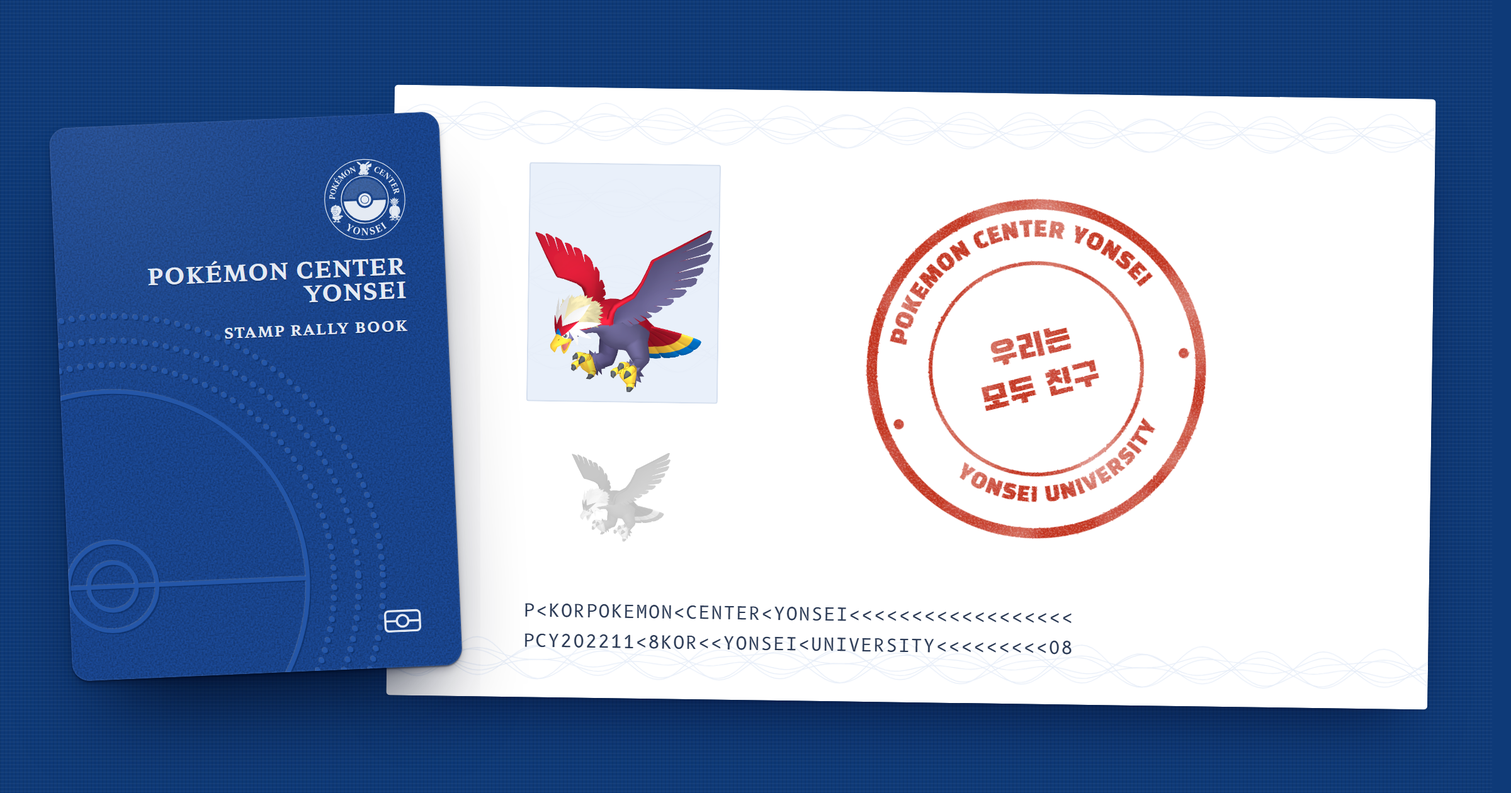
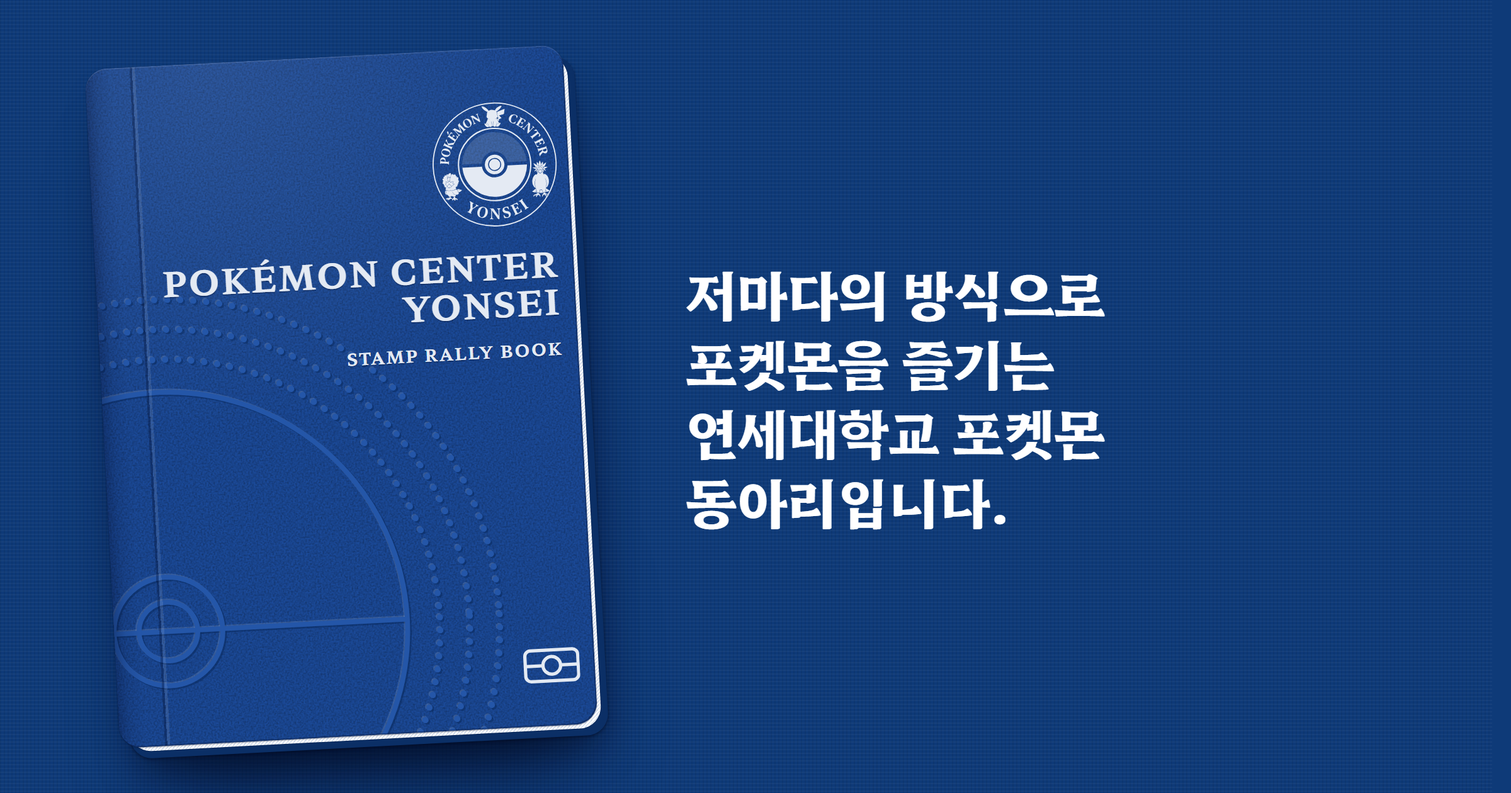
첫 화면을 덮어 둔 여권과 핵심 글로, 국기 언어 단추, 도장은 쪽마다 한 번
- 첫 화면: 워글 사진, 흰 자료 쪽, 기계 판독 줄, 모토 도장을 빼고 천 위에
  덮어 둔 여권 한 권과 핵심 글(소개 한 줄, 자료 네 칸, 가입과 YPL)만
- 여권은 비율 88:125를 지킨 채 화면에 맞춰 줄고 늘고(표지 안 치수는 cqi),
  속지와 뒤표지 가장자리, 책등 그늘과 접는 홈으로 실제 수첩처럼
- 글 길이와 상관없이 여권의 크기와 자리가 세 언어에서 같다
- 언어 단추를 다시 국기로(#f-kr, #f-us, #f-jp)
- 스탬프 랠리 도장은 쪽 번호 옆에 한 번만. 머리줄과 휴대폰 메뉴에서 뺐다
- 활동 사진: 필름 원판 대신 사진 귀를 붙인 빈 사진 자리와 인스타그램 링크
- 통일성: 마스코트 키와 몸무게에 여권식 이름표, 원종과 타입 칩을 고무도장으로,
  바닥글 메뉴 글꼴을 머리줄과 같게
- og.png와 make-og.mjs, CLAUDE.md, DESIGN.md를 새 구조에 맞췄다

diff --git a/DESIGN.md b/DESIGN.md
@@ -175,7 +175,7 @@ components:
 
 ### Secondary (도장 잉크 넷)
 - **파랑 잉크** (`ink-blue`): 기본 도장, 기본 표, 고른 기수 탭, 링크, 화살표.
-- **빨강 잉크** (`ink-red`): 모토 도장, 환영 도장, 가입 표(마지막 쪽), 질문의 A 표시와 열린 표시, 회장과 부회장 직책, 초점 테두리.
+- **빨강 잉크** (`ink-red`): 환영 도장, 가입 표(마지막 쪽), 질문의 A 표시와 열린 표시, 회장과 부회장 직책, 초점 테두리.
 - **초록 잉크** (`ink-green`): 소개 쪽 봉인 도장, 연혁과 활동의 일부 도장, 복사 완료.
 - **보라 잉크** (`ink-violet`): 리그 입장권(표, 트로피 도장, 강조 글자).
 
@@ -204,7 +204,7 @@ components:
 | 제목 | Hahmlet 900 (Shippori Mincho B1 800) | h1, h2, h3, 임원 이름, 머리줄과 바닥글의 영문 이름 |
 | 값 (`.val`) | Hahmlet 700 (Shippori Mincho B1) | 소개 첫 문단, 자료 칸의 값, 가입 요약의 값, 연락처, 질문, 리그 문구, 도감 분류, 키와 몸무게, 한 학기 행사 이름 |
 | 단추 | Black Han Sans (Dela Gothic One) | 누르는 것과 작은 꼬리표: 표 단추, 링크, 탭, 색인 꼬리표, 칩, 직책 꼬리표 |
-| 도장 글자 (`--f-ink`) | Black Han Sans (Dela Gothic One) | 고무도장에 판 글자: 도장 띠, 모토 도장, 부서 도장, 질문 묶음 이름. `--f-stamp`와 같은 글꼴이다(2026-11에 Gasoek One을 빼서 글꼴을 다섯으로 줄였다) |
+| 도장 글자 (`--f-ink`) | Black Han Sans (Dela Gothic One) | 고무도장에 판 글자: 도장 띠, 부서 도장, 질문 묶음 이름. `--f-stamp`와 같은 글꼴이다(2026-11에 Gasoek One을 빼서 글꼴을 다섯으로 줄였다) |
 | 자료 (`.mono`) | B612 Mono 400 (세 언어 공통, 공항과 여권 서류의 글자) | 자료 이름표(CLUB, MEMBERS), 도감 번호, 영어 이름, 연락처 종류, MRZ, 쪽 번호, 저작권 줄 |
 | 본문 | Gowun Dodum (Zen Kaku Gothic New) | 문단, 쪽 소개, 임원 정보, 법적 고지, 한글 이름표(`.lbl`) |
 
@@ -247,7 +247,7 @@ components:
 - 쪽 머리(제목과 소개) 다음 첫 본문에는 `.page-body`를 붙여 묶음 사이 간격을 준다.
 
 ### 쪽마다 자기 배치
-- **첫 화면:** 왼쪽에 닫힌 수첩 표지(`.cover`, 여권 비율 88:125, 높이 440~600px, -2.5도, 안쪽 여백 위 12% 옆 10% 아래 9%). 실제 여권(한국 2021, 노르웨이, 스위스)의 문법을 따른다: 네 귀가 같은 둥근 귀(4mm), 무광 한 가지 색, 넉넉한 빈 면, 오른쪽 위 작은 은박 엠블럼(폭 27%), 그 아래 엠블럼 지름의 4분의 1(6.5cqi)만 띄운 오른쪽 맞춤 글 묶음(영어로만: 함렛 700 대문자로 POKÉMON CENTER / YONSEI 두 줄, 엠블럼 고리의 글자 배치와 같게, 아래에 작은 STAMP RALLY BOOK. 실제 여권처럼 번역하지 않는 디자인 요소이고, 세 언어 모두 같은 모양이다. 각 언어의 동아리 이름은 h1 안의 숨은 글자로 화면 낭독기가 읽는다)(엠블럼 그림 안의 투명한 가장자리만큼 당겨 고리와 글 오른쪽 끝을 맞추고, 이름 윗선은 `text-box`로 글자 끝에서 잰다), 왼쪽 아래 가장자리에서 잘리는 큰 몬스터볼과 점 호 세 줄을 색 없이 눌러 찍고(한국 여권의 태극 무늬와 점 호처럼), 오른쪽 아래 전자여권 표시. 글자 크기는 표지 폭에 맞춰(`cqi`) 함께 줄어든다. 테두리, 책등, 광택 같은 장식은 쓰지 않는다. 오른쪽에 표지 아래로 48px 깔린 자료 쪽(`.data`, 0.8도)은 실제 여권의 신원 정보면이다: 왼쪽 위 사진 칸(4:5, 마스코트 워글의 증명사진, 사진 바탕에도 보안 무늬), 그 아래 가운데 옅은 흑백 보조 사진(여권의 위조 방지용 작은 사진), 오른쪽에 소개 한 줄과 자료 여섯 칸(두 칸씩 세 줄), 가입 표와 YPL 링크(늘 위아래로), 맨 아래 MRZ 두 줄(각 44자). 모토 도장은 자료 쪽 오른쪽 아래 가장자리에 걸쳐 찍는다(단추와 겹치지 않게). 900px 미만에서는 표지(최대 320px, 키가 작은 화면에서는 더 작게)가 위에, 자료 쪽이 그 아래로 32px 깔리고, 모토 도장은 단추 줄 오른쪽에 온다. 520px 미만에서 사진은 소개 한 줄 옆에 88px로 작아지고, 자료 칸이 한 줄이 되며, 보조 사진은 뺀다.
+- **첫 화면:** 천 위에 덮어 둔 여권 한 권(`.passport`)과 핵심 글(`.hero-copy`)만 나란히(세운 좁은 화면에서는 여권 아래로 글). 여권은 비율 88:125를 절대 바꾸지 않고, 폭은 화면 높이에 맞춰 280~400px(휴대폰 220~320px, 화면 폭의 72% 이하), -3도. 앞표지 밑으로 속지 가장자리(흰 종이 결)와 뒤표지 가장자리가 오른쪽 아래로 비치고, 왼쪽에 책등으로 감기는 그늘과 접는 홈이 있어 실제로 덮어 둔 수첩처럼 보인다. 표지 안의 모든 치수는 여권 폭(`cqi`) 기준이라 어떤 화면에서도 같은 모양으로 줄고 는다. 표지 문법은 실제 여권(한국 2021, 노르웨이, 스위스): 네 귀가 같은 둥근 귀, 무광 한 색, 오른쪽 위 은박 엠블럼(폭 27%), 그 아래 엠블럼 지름의 4분의 1만 띄운 오른쪽 맞춤 영어 이름 묶음(POKÉMON CENTER / YONSEI, STAMP RALLY BOOK. 번역하지 않는 디자인 요소이고 각 언어 이름은 h1 안의 숨은 글자), 왼쪽 아래 색 없이 눌러 찍은 몬스터볼과 점 호, 오른쪽 아래 전자여권 표시. 핵심 글은 천 위 흰 글자: 소개 한 줄(Hahmlet 700), 자료 네 칸(MEMBERS, MEETUP, FEE, ELIGIBILITY, 고정폭 이름표와 값), 흰 가입 표와 YPL 링크. 글 길이가 언어마다 달라도 여권의 크기와 자리, 바탕은 바뀌지 않는다.
 - **활동:** 한 학기 도장 카드 네 칸, 점선 아래 활동 셋(나란히 세 칸, 잉크색 제목 아래 글. 860px 미만에서 한 줄씩), 다시 점선 아래 소모임 띠(왼쪽 제목, 오른쪽 고무도장 꼬리표). 소모임 목록을 활동 칸 하나에 매달지 않는다.
 - 소개는 5:7 두 칸, 연혁은 두 줄 도장 목록, 마스코트는 카드 두 장과 화살표, 질문은 줄 목록, 가입은 글과 도장 자리 두 칸. 리그 입장권만 `.loose`로 천 위에 따로 놓인다.
 - **머리줄:** 높이 64px(900px 미만 56px).
@@ -290,7 +290,6 @@ components:
 - **은박 엠블럼** (`#emblem-foil`): 여권 표지의 엠블럼은 원래 엠블럼을 여권식으로 다시 그린 것이다. 원래 엠블럼의 흰 부분(가는 바깥 고리, 글자와 포켓몬 그림, 안쪽 고리, 몬스터볼 아래 반, 단추)만 은박으로 누르고, 남색 바탕은 표지가 된다. 몬스터볼 위 반(원래 조금 밝은 남색)은 은박을 16%로 옅게 깐다. 모양은 원래와 같다(글자와 그림 묶음 `#emb-glyphs`를 같이 쓴다). 은박은 평평한 한 가지 색이고 필터를 쓰지 않는다.
 - **잉크:** 색은 `--c`(클래스 `.ink-blue`, `.ink-red`, `.ink-green`, `.ink-violet`). 큰 도장은 `filter: url(#ink)`(잉크 알갱이가 빠지고 가장자리가 3px 번짐), 작은 글자 도장은 `url(#ink-soft)`(결만 남기고 번짐 없음). 둘 다 문서 맨 앞 숨은 `<svg>`의 `<filter>`다.
 - **찍기:** 화면에 55% 들어오면 `.pressed`가 붙고 `press` 460ms(`--press` 곡선)로 6도 더 돌아간 1.2배 크기에서 0.94배로 눌렸다가 1배로 앉는다. 한 칸 안에서는 `--d` 하나당 120ms씩 차례로.
-- **모토 도장:** 첫 화면이 그려지고 450ms 뒤에 찍힌다.
 - **환영 도장:** 가입 쪽의 빈 자리(흐린 엠블럼 14%)에 있다가, 가입 표를 누를 때만 찍힌다. 기기의 움직임 줄이기 설정에서도 누르기 전에는 비어 있다(빈 자리가 이 쪽의 뜻이다).
 
 ### 표 단추 (`.ticket`)
@@ -299,14 +298,14 @@ components:
 - **상태:** 마우스를 올리면 2px 떠오르고 화살표가 2px 밀린다(220ms). 누르면 1px 내려가며 0.98배.
 - **글자 링크 (`.link`):** 표 옆의 보조 길. 파랑 잉크 글자에 2px 밑줄, 높이 44px.
 
-### 자료 칸과 MRZ (`.data`, `.field`, `.mrz`)
-여권 자료 쪽. 자료 여섯 칸(두 줄 세 칸, 칸마다 위에 1px 점선), 항목 이름(고정폭 대문자 `.mono` + 한글 이름표 `.lbl`)과 값(`.val`, 26.5px), 맨 아래 MRZ 두 줄(실제 여권 TD3처럼 각 44자, 폭에 맞춰 글자 크기를 `cqi`로 계산해 한 줄에 들어가게). 영어에서는 고정폭 이름표 옆의 작은 이름표를 숨긴다(MEMBERS Members처럼 되풀이되므로). 회원 수와 회비가 바뀌면 이 칸도 바뀐다.
+### 자료 칸 (`.fields`, `.field`, 마스코트 `.specs`)
+항목 이름(고정폭 대문자 `.mono` + 한글 이름표 `.lbl`)과 값(`.val`). 첫 화면 천 위의 네 칸(위에 점선)과 마스코트 카드의 키와 몸무게(HEIGHT, WEIGHT)가 같은 말투다. 영어에서는 고정폭 이름표 옆의 작은 이름표를 숨긴다(MEMBERS Members처럼 되풀이되므로). 회원 수와 회비가 바뀌면 이 칸도 바뀐다. 기계 판독 줄(MRZ)은 뒤표지에만 있고 실제 여권(TD3)처럼 44자다.
 
 ### 쪽 번호 (`.folio`)
 각 쪽 아래 가운데의 두 자리 번호(01에서 08), 양옆에 짧은 선. 색인 번호와 같다.
 
 ### 색인 꼬리표 (`.sect-list`)
-머리줄 가운데의 글자 색인. Hahmlet 700 17px(영어와 일본어는 1240px 미만에서 13.5px), 천 위 보조 글자색, 지금 쪽은 흰 글자와 아래 가는 실 한 줄. 다 읽은 쪽에는 글자 오른쪽 위 모서리에 작은 랠리 도장이 찍힌다(스탬프 랠리 참고). 900px 미만에서는 목차 단추가 천 위에 흰 색인 쪽을 펼치고(위에서 아래로 열림), 번호 칸과 이름 칸이 48px 줄로 놓인다.
+머리줄 가운데의 글자 색인. Hahmlet 700 17px(영어와 일본어는 1240px 미만에서 13.5px), 천 위 보조 글자색, 지금 쪽은 흰 글자와 아래 가는 실 한 줄. 랠리 도장은 머리줄에 찍지 않는다(쪽 번호 옆에 한 번만). 900px 미만에서는 목차 단추가 천 위에 흰 색인 쪽을 펼치고(위에서 아래로 열림), 번호 칸과 이름 칸이 48px 줄로 놓인다.
 
 ### 입국 도장 (연혁 `.visa`, `.entry`)
 날짜마다 모양과 잉크가 다른 148px 도장(휴대폰 104px)과 옆의 제목과 글. 펼친 두 쪽이라 왼쪽 쪽을 위에서 아래로(2022.11, 2023.03), 이어서 오른쪽 쪽(2023.07, 2024.03)을 읽는다(`grid-auto-flow: column`). 860px 미만에서 한 줄.
@@ -315,7 +314,7 @@ components:
 점선 원 네 칸(최대 140px)이 점선으로 이어지고, 들어오면 네 칸에 차례로 포켓몬 도장이 찍힌다. 아래 점선 뒤에 활동 셋(제목 앞 그 잉크의 몬스터볼 도장 30px, 마스크로 그림), 다시 점선 뒤에 소모임 띠: 왼쪽 제목(`act.subs`), 오른쪽 고무도장 꼬리표(`.tag`, Black Han Sans, 2px 테두리, `#ink-soft`, 포켓몬 소모임은 빨강, 그 밖은 파랑, 살짝씩 기울임).
 
 ### 칩 (`.chip`, `.type-chip`, `.dex-form`)
-우표첩 바탕의 알약에 잉크색 점 하나. 소모임은 Black Han Sans, 타입과 형태는 본문 글꼴 700.
+소모임 꼬리표와 같은 작은 고무도장: 2px 테, `#ink-soft` 잉크 결, Black Han Sans(형태와 타입: 원종, 노말, 비행).
 
 ### 리그 입장권 (`.pass`)
 탑승권 모양의 속지 한 장. 왼쪽 본문(보라 형광 밑줄 강조 하나, 보라 표), 오른쪽 300px 떼는 쪽에 보라 트로피 도장, 바코드, 고정폭 리그 이름. 760px 미만에서 떼는 쪽이 아래로 간다.
@@ -340,13 +339,13 @@ components:
 ### 마지막 도장 자리와 가입 (`.final`)
 뒤표지 안쪽의 면지: 우표첩 바탕(`album`)에 보안 무늬가 온 면에 깔린다. 오른쪽은 280px 점선 원(3px, 820px 미만에서는 180px) 안에 흐린 엠블럼. 왼쪽에는 큰 제목, 빨강 한 줄, 제목색 괘선 아래 랠리 카드, 그 바로 아래 빨강 가입 표(랠리 카드의 "마지막 도장은 가입하기에서" 바로 밑). 표를 누르면 오른쪽 빈 자리에 WELCOME 환영 도장이 찍히고 연락처 창이 뜬다. 휴대폰에서는 가입 표가 빈 도장 자리보다 먼저 온다. 회비 같은 자료는 첫 화면에 한 번만 둔다.
 
-### 스탬프 랠리 (`.rally`, `.mini`, 색인의 `.slot`)
-페이지를 진짜 랠리로 만드는 장치. 쪽 번호(`.folio`, 쪽의 끝)가 화면에 0.4초 머물면 그 쪽을 다 읽은 것으로 보고, 그 쪽의 작은 둥근 도장(`.mini`, 두 겹 테 안에 캐릭터, `#ink-soft`)이 세 곳에 같이 찍힌다: 쪽 번호 오른쪽(40px), 머리줄 색인 글자의 오른쪽 위 모서리(20px, 천 위라 흰 바탕 원), 휴대폰 색인 줄 오른쪽의 빈 점선 칸(32px). 가입 쪽 왼쪽 글 아래, 제목색 괘선 밑에 랠리 카드(제목, 고정폭 개수 `N / 7`, 번호가 적힌 48px 점선 칸 일곱, 안내 한 줄)가 놓인다. 일곱 칸이 다 차면 안내가 빨강 도장 글자 "랠리 완주!"로 바뀌고 큰 도장 자리의 점선도 빨강이 된다. 여덟 번째 도장은 가입 표를 눌러 받는 환영 도장이다.
+### 스탬프 랠리 (`.rally`, `.mini`)
+페이지를 진짜 랠리로 만드는 장치. 쪽 번호(`.folio`, 쪽의 끝)가 화면에 0.4초 머물면 그 쪽을 다 읽은 것으로 보고, 그 쪽의 작은 둥근 도장(`.mini`, 두 겹 테 안에 캐릭터, `#ink-soft`, 48px)이 쪽 번호 오른쪽에 한 번 찍힌다. 머리줄 색인에는 찍지 않는다(같은 도장을 두 번 찍지 않고, 머리줄이 잘리지 않게). 가입 쪽 왼쪽 글 아래, 제목색 괘선 밑에 랠리 카드(제목, 고정폭 개수 `N / 7`, 번호가 적힌 48px 점선 칸 일곱, 안내 한 줄)가 놓인다. 일곱 칸이 다 차면 안내가 빨강 도장 글자 "랠리 완주!"로 바뀌고 큰 도장 자리의 점선도 빨강이 된다. 여덟 번째 도장은 가입 표를 눌러 받는 환영 도장이다.
 - 도장: 소개 피카츄(초록), 연혁 피츄(파랑), 활동 이브이(빨강), 리그 리자몽(보라), 마스코트 수리둥보(파랑), 사람들 푸린(초록), 질문 잠만보(빨강). 그림은 이미 있는 도장 `<image>`에서 빌려 쓴다(같은 이미지를 또 넣지 않는다).
 - 색인을 눌러 휙 지나가는 쪽은 찍지 않는다(0.4초 머묾). 방문할 때마다 새로 모으고 저장하지 않는다. 스크립트가 없으면 카드는 숨는다.
 
-### 활동 사진 (`.photos`, `.film`)
-활동 쪽 맨 아래. 실제 사진은 인스타그램에 있고, 쪽에는 필름 원판 한 줄(짙은 천 색 필름, 위아래 톱니 구멍, 구멍과 칸 사이의 가장자리 인쇄 PCY 400, 칸 넷)과 한 줄 글, 표 단추 "인스타그램에서 보기"를 둔다. 필름 칸에는 한 학기 도장 그림 넷(이상해씨, 이브이, 잠만보, 삐삐)을 원판처럼 반전해 비춘다(스크립트가 도장 그림을 빌려 와 `--neg`로 넘긴다). 필름 전체도 같은 링크다(화면 낭독기와 키보드는 표 단추만 쓴다). 활동 쪽의 작은 제목(한 학기 동안, 소모임, 활동 사진)은 모두 내용 위에 놓는다.
+### 활동 사진 (`.photos`, `.album`)
+활동 쪽 맨 아래. 실제 사진은 인스타그램에 있다. 쪽에는 마스코트 등록 카드와 같은 사진(흰 테 8px, 네 모서리 사진 귀, 살짝 기울임)의 빈 사진 자리 하나에 인스타그램 표시와 계정(고정폭), 옆에 한 줄 글과 표 단추 "인스타그램에서 보기". 사진 자리도 같은 링크다(화면 낭독기와 키보드는 표 단추만 쓴다). 활동 쪽의 작은 제목(한 학기 동안, 소모임, 활동 사진)은 모두 내용 위에 놓는다.
 
 ### 연락처 창 (`.dlg`)
 속지 한 장(보안 무늬, 10px 모서리, 최대 480px)의 `<dialog>`. 열릴 때 0.94배에서 커진다. 제목 아래 괘선, 연락처마다 선 아이콘 28px, 고정폭 이름표, 값(Hahmlet 700 17px, 마우스를 올리면 빨강), 복사 알약(누르면 초록으로 바뀌고 체크).
@@ -355,7 +354,7 @@ components:
 여권 뒤표지: 앞표지와 같은 무광 표지 재질(`--cover-c`, 가죽 결 `--grain`)에, 앞표지의 눌러 찍은 몬스터볼과 점 호를 좌우로 뒤집어 오른쪽 아래에(휴대폰에서는 280px로 작게). 은박 엠블럼(`#emblem-foil`) 96px, 은박 대문자 영어 이름(Hahmlet 700), 소개 한 줄, 메뉴, 밑줄 있는 연락처 링크, 상표 고지, 맨 아래 은박 바코드와 기계 판독 줄(44자, 글 폭에 맞춰 `cqi`로). 테두리 장식은 쓰지 않는다. 글자는 `foil`, `on-cloth`, `on-cloth-2`, 초점 테두리는 흰색.
 
 ### 아이콘과 국기
-선 아이콘은 24×24, 선 2, 둥근 끝(`.ic`). 국기는 임원 국적에만 쓰고, 직접 그린 SVG 기호(`#f-kr`, `#f-jp`, `#f-fr`)이며 이모지를 쓰지 않는다. 언어 단추는 국기가 아니라 KO, EN, JA 글자다(고정폭, 고른 것은 흰 바탕에 천 색 글자). 엠블럼은 `#emblem` 기호 하나를 첫 화면 표지, 머리줄, 가입 쪽, 뒤표지가 같이 쓴다.
+선 아이콘은 24×24, 선 2, 둥근 끝(`.ic`). 국기는 임원 국적과 언어 단추에 쓰고, 직접 그린 SVG 기호(`#f-kr`, `#f-us`, `#f-jp`, `#f-fr`)이며 이모지를 쓰지 않는다. 언어 단추도 국기(`#f-kr`, `#f-us`, `#f-jp`, 26×17px, 모서리 2px)이고 고른 것은 흰 테를 두르고 조금 커진다. 엠블럼은 `#emblem` 기호 하나를 첫 화면 표지, 머리줄, 가입 쪽, 뒤표지가 같이 쓴다.
 
 ### 움직임
 곡선은 둘이다. `--press`(눌렀다 앉는 곡선)와 `--ease`(부드러운 멈춤). 길이는 120ms에서 520ms. 움직임은 과하지 않아 화면에 끄는 단추를 두지 않고, 기기 설정의 움직임 줄이기만 따른다(`<html data-motion>`). `reduce`에서는 모든 움직임이 멈추고 도장은 처음부터 찍힌 채 보인다.

diff --git a/CLAUDE.md b/CLAUDE.md
@@ -11,7 +11,7 @@
 | 경로 | 설명 |
 |---|---|
 | `index.html` | **사이트 전체.** CSS, JS, 이미지(base64)가 전부 인라인된 단일 파일이자 유일한 편집 대상. 약 1.4MB |
-| `og.png` | 1200×630 링크 공유 카드(2배 해상도 2400×1260). **첫 화면을 간추려 찍은 것**(은박 표지, 모토 도장, 기계 판독 줄만) — 따로 그리지 말고 `node scripts/make-og.mjs`로 다시 만든다. 첫 화면을 고치면 이것도 다시 만들 것 |
+| `og.png` | 1200×630 링크 공유 카드(2배 해상도 2400×1260). **첫 화면을 간추려 찍은 것**(덮어 둔 여권과 소개 한 줄만) — 따로 그리지 말고 `node scripts/make-og.mjs`로 다시 만든다. 첫 화면을 고치면 이것도 다시 만들 것 |
 | `.github/workflows/static.yml` | 자동 배포 설정. 건드리지 말 것 |
 | `scripts/` | 검증·이미지 처리 도구. 이 중 `build.mjs`만 배포에 쓰인다 |
 | `dist/` | 배포 때 자동으로 만들어지는 결과물. Git에 올리지 않고(`.gitignore`) 직접 고치지 않는다 |
@@ -25,7 +25,7 @@
 
 문구는 `index.html` 안 `const i18n = { ko:{}, en:{}, ja:{} }` 사전에 있고, 마크업은 `data-i18n="키"`로 참조한다. `setLang(lang)`이 `innerHTML`을 교체한다.
 
-- **세 언어의 키 집합이 완전히 동일**해야 한다 (현재 280개 × 3).
+- **세 언어의 키 집합이 완전히 동일**해야 한다 (현재 277개 × 3).
 - **HTML에 직접 적힌 기본 텍스트 = `ko` 값**이어야 한다. 어긋나면 언어 버튼을 한 번도 누르지 않은 첫 방문자에게만 다른 문구가 보인다. 실제로 이 버그로 한국어 페이지에 마스코트 타입 칩이 영어로 떠 있었다.
 - 문구에 가운뎃점(·)을 쓰지 않는다. 나열은 쉼표나 평범한 문장으로 쓴다. (자료 칸의 영어 고정폭 이름표 CLUB, MEMBERS 등, 도장 안의 영어, 첫 화면 여권 표지의 영어(POKÉMON CENTER / YONSEI, STAMP RALLY BOOK)는 번역 대상이 아니라 디자인 요소다. 표지의 h1에는 각 언어의 동아리 이름(`brand`)이 화면 낭독기용 숨은 글자로 들어 있다. 제목 위에 영어 머리말을 다는 것은 금지다. 아래 디자인 체계 참고.)
 - 일본어는 전각 물음표(？)와 느낌표(！)를 쓰고, 학교 이름은 「延世大学」, 지명은 「シンチョン」처럼 일본어 독자가 읽는 대로 적는다. 영어에는 줄표(—)를 쓰지 않는다.
@@ -36,7 +36,7 @@
 
 키 접두사: `meta. brand. nav. hero. about. history. act. sub. ypl. mas. mem. faq. join. facts. contact. foot.`(섹션 문구), `ed. er. em* ey. eg. ec.`(임원 메타), `pn.<한글이름>`(인물), `pk.<한글포켓몬>`(포켓몬), `a11y.`(보조 문구). 대체 텍스트용 `data-i18n-aria`(마스코트 그림)와 스크립트에서만 쓰는 키(`contact.copied`)도 있다.
 
-`facts.*`는 첫 화면 자료 칸의 회비, 가입 대상, 정기 모임 값이다(2026-11에 가입 쪽의 같은 요약 줄은 반복이라 뺐다). 회비나 회원 수가 바뀌면 FAQ, 소개 문단과 함께 여기도 고친다. 회원 수는 첫 화면 자료 칸(MEMBERS 줄의 `<b>130</b>`)에도 적혀 있다. 기수 숫자(GENERATION)는 사람들 섹션의 기수 탭 개수를 스크립트가 센다.
+`facts.*`는 첫 화면 자료 칸(천 위의 네 칸: 회원, 정기 모임, 회비, 가입 대상)의 회비, 가입 대상, 정기 모임 값이다. 회비나 회원 수가 바뀌면 FAQ, 소개 문단과 함께 여기도 고친다. 회원 수는 첫 화면 자료 칸(MEMBERS 줄의 `<b>130</b>`)에도 적혀 있다.
 
 임원 한 명은 이름(`pn.`), 직책(`er.`), 학과(`em`), 학번(`ey.`), 국적(`nat.`), 최애 포켓몬(`pk.`)으로 이루어진다. 학과 이름은 모두 "~학과"로 쓴다(학부로 쓰지 않는다). 국적은 모두 표시하고, 기본값은 `nat.kr`이다. 국기는 이모지가 아니라 직접 그린 SVG 기호(`#f-kr`, `#f-jp`, `#f-fr`)다. 이모지 국기는 윈도우에서 글자로 보이기 때문이다. 새 국적을 추가하려면 같은 방식으로 `#f-<코드>` 기호를 그리고 `nat.<코드>` 문구를 세 언어로 넣는다(화면 낭독기용으로 이름이 함께 들어간다). 외국인 임원은 이름을 성과 이름 모두 적는다(예: 나카쓰지 아오바 / Aoba Nakatsuji / 中辻 青葉).
 
@@ -69,7 +69,7 @@
 
 - 명암비 WCAG AA 4.5:1 미달 0곳. 속지 위에서는 `--label`(#4D6690, 5.8:1)이 가장 옅은 글자색이라 더 옅게 하면 깨진다. 도장 잉크 넷(`--ink-blue/red/green/violet`)도 글자로 쓸 수 있게 4.5:1 이상으로 골랐다. 글자에 투명도를 쓰지 않는다
 - 테마는 하나(연세 블루 천 표지와 흰 속지)다. 2026-10-16에 라이트/다크 전환을 없앴다. 전환 버튼을 되살리지 말 것. 천 위의 글자는 흰색 계열(바탕색을 `background-color`로도 적어야 명암비 검사가 맞게 잰다)
-- 언어 단추는 KO, EN, JA 글자(B612 Mono)다. 국기를 쓰지 않는다(언어는 나라가 아니고, 영어에 미국 국기를 붙이지 않으려고 2026-11에 바꿨다). 화면 낭독기용 이름(한국어, English, 日本語)이 숨어 있다
+- 언어 단추는 국기(`#f-kr`, `#f-us`, `#f-jp`, 모서리 2px, 고른 것은 흰 테)이고, 화면 낭독기용 이름(한국어, English, 日本語)이 숨어 있다
 - `:focus-visible` 아웃라인 / `prefers-reduced-motion` 대응 / `<main>` + 스킵 링크 / 제목 레벨 연속
 - FAQ는 세 묶음(가입, 활동, 회비와 동아리방. 묶음 이름은 `h3.faq-g`, 질문은 `h4.faq-h`)의 아코디언(`aria-expanded` + `aria-controls`, 닫힌 답에 `inert`, 13개). 기수 고르기는 탭(`role=tablist/tab/tabpanel`, `aria-selected`, 고르지 않은 패널은 `hidden`, 좌우 화살표로 이동). 마스코트는 탭 없이 등록 카드 둘이 나란히 놓인다
 - 모든 `<img>`에 `width`/`height` (레이아웃 시프트 방지)
@@ -87,7 +87,7 @@
 
 - **천과 속지**: 페이지 바탕은 연세 블루 천 표지(`--cloth` #0E3A78, 가는 직조 무늬 `--weave`). 내용은 흰 속지(`.paper`, 위아래 가장자리에만 옅은 보안 무늬 띠 `--print-url`, 모서리 3px, 종이 그림자)에 담긴다. 쪽마다 물건이 다르다: 질문은 풀칠한 천 띠와 절취선이 있는 메모장, 가입은 보안 무늬가 온 면에 깔린 면지, 넓은 화면에서는 소개, 마스코트, 질문 쪽의 폭과 놓인 자리가 조금씩 다르다. 섹션 하나가 한 쪽(`.page.sheet`)이고, 쪽 아래에 색인 번호와 같은 쪽 번호(`.folio`, 01~08)가 있다. 리그만 천 위에 따로 놓인 입장권(`.loose` 안의 `.pass`)이다.
 - **도장**(`.stamp`): 잉크 넷(`--ink-blue` #1D4FA0, `--ink-red` #C2331F, `--ink-green` #23724A, `--ink-violet` #5B3FA0) 중 하나로, `filter: url(#ink)`의 얼룩진 잉크 결과 기울기(`--r`). 작은 글자 도장은 결만 남기는 `#ink-soft`. 화면에 들어오면 찍힌다(`.pressed`, 한 칸 안에서는 `--d` 순서로). 기기의 움직임 줄이기 설정에서는 처음부터 찍혀 있다(화면에 끄는 단추는 2026-10-18에 없앴다). 공식 포켓몬 미니 스탬프처럼 틀(둥근 사각, 원, 물결 원)을 꽉 채운 무늬(빗금, 점) 위에 2D 캐릭터를 가운데 크게 두고, 아래 리본 띠에 날짜나 단어를 흰 글자로 판다. 첫 화면 엠블럼도 `#emb-ink` 필터로 찍은 도장이다. 질문 답 앞 표시는 빨간 몬스터볼 도장이다.
-- **부품**: 첫 화면 자료 쪽의 사진 칸(`.bio-photo`, 마스코트 워글의 증명사진과 옅은 보조 사진 `.bio-ghost`, 그림은 `.art-braviary`를 같이 쓴다), 활동 쪽의 활동 사진 띠(`.photos`: 실제 사진 대신 인스타그램으로 가는 필름 원판 한 줄 `.film`과 링크. 필름 칸에는 한 학기 도장 그림 넷을 스크립트가 반전해 비춘다. 사진을 지어내 넣지 않는다), 첫 화면의 닫힌 수첩 표지(`.cover`, 실제 여권 문법: 무광 한 색, 오른쪽 위 은박 엠블럼, 오른쪽 맞춤 이름 묶음, 색 없이 눌러 찍은 몬스터볼과 점 호, 전자여권 표시)와 그 아래 반쯤 깔린 자료 쪽(`.data`), 자료 칸(`.fields`)과 기계 판독 줄(`.mrz`), 입국 도장(연혁 `.entry`), 한 학기의 도장 카드(`.road`), 반원 홈이 파인 표 단추(`.ticket`, 흰색 `.white`, 빨강 `.red`), 리그 입장권(`.pass`), 마스코트 등록 카드(`.dex`), 우표(`.exec-member` 안의 `.perf`, 가장자리 구멍은 마스크. 1300px 이상에서는 부서마다 우표 수집책의 옅은 띠 위에 꽂힌다), 질문 줄(`.faq-item`, 답 앞의 붉은 A 도장), 마지막 빈 도장 자리와 환영 도장(`.final`, `.welcome`), 스탬프 랠리(`.rally`: 쪽 번호가 0.4초 보이면 그 쪽의 작은 도장 `.mini`가 쪽 번호 옆, 색인, 가입 쪽 랠리 카드에 같이 찍힌다. 그림은 기존 도장 그림을 빌려 쓰고, 방문마다 새로 모은다), 머리줄의 색인(`.sect-list`, Hahmlet 700 17px, 천 위의 흰 글자만, 지금 쪽 아래에 가는 실 한 줄. 색 꼬리표는 2026-10-18에 없앴다), 뒤표지(`.footer`, 앞표지와 같은 무광 표지 재질 `--cover-c`에 은박 엠블럼과 이름, 좌우를 뒤집은 몬스터볼 무늬, 바코드와 기계 판독 줄). 기계 판독 줄(MRZ)은 실제 여권(TD3)처럼 두 줄 모두 44자다.
+- **부품**: 활동 쪽의 활동 사진(`.photos`: 실제 사진 대신 마스코트 카드와 같은 사진 귀를 붙인 빈 사진 자리 `.album`에 인스타그램 표시와 계정, 옆에 인스타그램 링크. 사진을 지어내 넣지 않는다), 첫 화면의 덮어 둔 여권(`.passport` 안의 `.cover`, 앞표지 밑으로 속지와 뒤표지 가장자리가 비치고 책등 쪽 그늘과 접는 홈이 있다. 화면 크기에 맞춰 비율 그대로 줄고 는다. 실제 여권 문법: 무광 한 색, 오른쪽 위 은박 엠블럼, 오른쪽 맞춤 이름 묶음, 색 없이 눌러 찍은 몬스터볼과 점 호, 전자여권 표시)와 옆(휴대폰은 아래)의 천 위 핵심 글(`.hero-copy`: 소개 한 줄, 자료 네 칸, 가입 표와 YPL 링크), 자료 칸(`.fields`)과 기계 판독 줄(`.mrz`), 입국 도장(연혁 `.entry`), 한 학기의 도장 카드(`.road`), 반원 홈이 파인 표 단추(`.ticket`, 흰색 `.white`, 빨강 `.red`), 리그 입장권(`.pass`), 마스코트 등록 카드(`.dex`), 우표(`.exec-member` 안의 `.perf`, 가장자리 구멍은 마스크. 1300px 이상에서는 부서마다 우표 수집책의 옅은 띠 위에 꽂힌다), 질문 줄(`.faq-item`, 답 앞의 붉은 A 도장), 마지막 빈 도장 자리와 환영 도장(`.final`, `.welcome`), 스탬프 랠리(`.rally`: 쪽 번호가 0.4초 보이면 그 쪽의 작은 도장 `.mini`가 쪽 번호 옆에 한 번 찍히고, 가입 쪽 랠리 카드에 모인다. 머리줄에는 찍지 않는다. 그림은 기존 도장 그림을 빌려 쓰고, 방문마다 새로 모은다), 머리줄의 색인(`.sect-list`, Hahmlet 700 17px, 천 위의 흰 글자만, 지금 쪽 아래에 가는 실 한 줄. 색 꼬리표는 2026-10-18에 없앴다), 뒤표지(`.footer`, 앞표지와 같은 무광 표지 재질 `--cover-c`에 은박 엠블럼과 이름, 좌우를 뒤집은 몬스터볼 무늬, 바코드와 기계 판독 줄). 기계 판독 줄(MRZ)은 실제 여권(TD3)처럼 두 줄 모두 44자다.
 - **글꼴 역할 다섯**: 제목(Hahmlet 900), 값(`.val`, Hahmlet 700), 도장과 누르는 것, 도장에 판 글자(Black Han Sans), 자료 이름표(`.mono`, B612 Mono), 본문(Gowun Dodum, 한글 이름표 `.lbl`). 일본어는 Shippori Mincho B1, Zen Kaku Gothic New, Dela Gothic One. 영어 고정폭 이름표(CLUB, MEMBERS 등)는 번역하지 않는 디자인 요소다.
 - **광학 중앙**: 상자 안 한 줄 글자(표, 탭, 꼬리표, 직책)는 줄 높이 1에 글꼴별 보정(`--opt-stamp-t/b`, `--opt-ink-t/b`, `--opt-mono-t/b`)만 위아래 여백으로 주고, 가로는 `--px`(표는 홈 쪽 `--pl`)에 `--opt-stamp-x`, `--opt-ink-x`를 더하고 뺀다. 좌우 여백을 `padding` 축약형으로 다시 적으면 이 보정이 지워지니 `--px`만 바꿀 것. 글꼴을 바꾸면 보정값을 다시 잰다(잉크 중심과 상자 중심 차이를 0.5px 안으로).
 - **크기와 여백의 법칙**: 글자 크기는 `--fs-1`~`--fs-10`(17px에서 1.25배씩), 여백은 `--sp-1`~`--sp-9`(8px 바탕, 1.5배씩), 자간은 `--ls-*`, 줄 간격은 `--lh-*` 토큰만 쓴다. 덩어리 안은 4~12, 같은 묶음 항목 사이는 12~24, 묶음 사이는 48. 자세한 표는 `DESIGN.md`의 Typography와 Layout.
